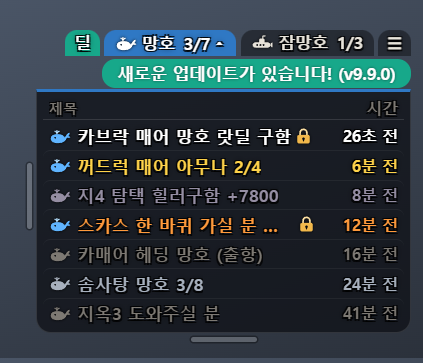
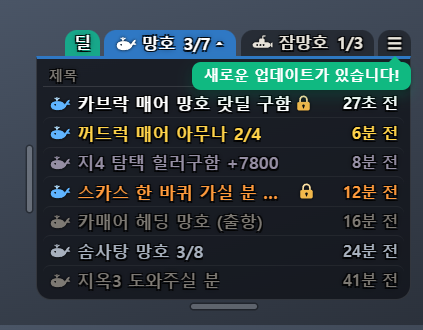
New-version bubble under the ☰ (after Scouter Lite), no row of its own
- "새로운 업데이트가 있습니다!" (no version number) floats under the ☰:
  absolute in the page, its edge on the ☰'s edge toward the content,
  kept inside the window, a caret at the ☰ - nothing moves. Emerald,
  10px, like Scouter's; the green dot on the ☰ stays.
- Hidden while the ☰ menu is open and while an update is being fetched
  or installed (update-ui pageState: pill && !busy, re-sent when busy
  changes).
- README: bubble wording and shot (scanner update-pill.png, widget
  update-bubble.png - new); CHANGELOG.

diff --git a/renderer.js b/renderer.js
@@ -430,18 +430,35 @@ function setProblems(list) {
 }
 window.setProblems = setProblems;
 
-// "새로운 업데이트가 있습니다!" under the tabs (click: the update window); a short message from
-// the update check takes its place for a few seconds
+// "새로운 업데이트가 있습니다!" - a bubble under the ☰ that takes no room (click: the update
+// window); hidden while the menu is open. With toasts off, a short message from the update
+// check takes its place for a few seconds.
 let updPill = '';
 let updToast = null;
 let updToastT = 0;
+let menuOpen = false;
 function drawPill() {
   const p = $('updpill');
   const text = updToast ? updToast.text : updPill;
-  p.hidden = !text;
+  p.hidden = !text || menuOpen;
   p.textContent = text;
   p.className = `updpill hit ${updToast ? `toast ${updToast.level}` : ''}`;
+  placeBubble();
 }
+// under the ☰, its edge on the ☰'s edge toward the list, kept inside the window; the caret at the ☰
+function placeBubble() {
+  const b = $('updpill');
+  if (b.hidden) return;
+  const m = $('menu').getBoundingClientRect();
+  const r = $('root').getBoundingClientRect();
+  const w = b.offsetWidth;
+  let left = document.body.classList.contains('left') ? m.left - r.left : m.right - r.left - w;
+  left = Math.max(2, Math.min(left, r.width - w - 2));
+  b.style.top = `${Math.round(m.bottom - r.top + 4)}px`;
+  b.style.left = `${Math.round(left)}px`;
+  b.style.setProperty('--caret', `${Math.round(Math.max(4, Math.min(w - 12, left + w - (m.left - r.left + m.width / 2) - 4)))}px`);
+}
+new ResizeObserver(placeBubble).observe(document.querySelector('.head'));
 $('updpill').addEventListener('click', () => {
   if (blocked()) return;
   if (updToast) { updToast = null; drawPill(); return; }     // a message: click = dismiss
@@ -557,6 +574,7 @@ wsizer.addEventListener('pointerdown', (e) => {
 wsizer.addEventListener('dblclick', () => { if (!blocked()) window.mangho.ui('width-reset'); });
 new ResizeObserver(() => {
   fitList();
+  placeBubble();
   window.mangho.ui('height', $('root').getBoundingClientRect().height + 2);
 }).observe($('root'));
 
@@ -577,6 +595,7 @@ window.mangho.onFeed((d) => {
     if (mode !== nickMode) { nickMode = mode; if (snap) draw(); }
     document.body.classList.toggle('wbar-left', d.wside === 'left');
     document.body.classList.toggle('wbar-right', d.wside !== 'left');
+    placeBubble();                       // the ☰ may have moved to the other end
     if (d.width) setWidthTip(d.width, d.defWidth);
     if (d.tab && d.tab !== tab) showTab(d.tab);
     if (d.role && d.role !== role) setRole(d.role);
@@ -610,7 +629,7 @@ window.mangho.onFeed((d) => {
     // update window it opens (never by itself)
     $('menu').classList.toggle('upd', !!d.version);
     $('menu').dataset.upd = d.version || '';
-    updPill = d.pill ? `새로운 업데이트가 있습니다! (v${d.version})` : '';
+    updPill = d.pill ? '새로운 업데이트가 있습니다!' : '';
     drawPill();
     setProblems(problems);
   } else if (d.type === 'update-toast') {
@@ -621,5 +640,7 @@ window.mangho.onFeed((d) => {
     updToastT = setTimeout(() => { updToast = null; drawPill(); }, (d.sec || 3) * 1000);
   } else if (d.type === 'menu') {
     blockUntil = d.open ? Infinity : Date.now() + 300;
+    menuOpen = !!d.open;
+    drawPill();
   }
 });

diff --git a/style.css b/style.css
@@ -65,14 +65,23 @@ body.busy .tab.on .cnt { opacity: .5; }
   content: ''; position: absolute; top: 1px; right: 1px; width: 6px; height: 6px; border-radius: 50%;
   background: var(--green); box-shadow: 0 0 0 1px rgba(0,0,0,.6);
 }
-/* "새로운 업데이트가 있습니다!" (after Scouter Lite's green pill); short messages use the same spot */
+/* "새로운 업데이트가 있습니다!" - a bubble hanging under the ☰ like Scouter Lite's (user 2026-11-27):
+   it takes no room (the list does not move); hidden while the menu is open or an update is being
+   installed. renderer.js placeBubble() puts it there. Short messages (toasts off) use it too. */
 .updpill {
-  margin: 2px 0 1px; padding: 1px 10px; border-radius: 9px; font-size: 11px; line-height: 17px; cursor: pointer;
-  background: #17a88a; color: #fff; text-shadow: 0 0 2px rgba(0,0,0,.6); max-width: 100%;
-  overflow: hidden; text-overflow: ellipsis; white-space: nowrap;
+  position: absolute; z-index: 6; padding: 3px 8px; border-radius: 6px; font-size: 10px; line-height: 13px;
+  white-space: nowrap; cursor: pointer; color: #fff; background: #10b981; text-shadow: none;
+  box-shadow: 0 4px 10px rgba(5, 150, 105, .25), 0 1px 3px rgba(0, 0, 0, .35);
 }
+.updpill:hover { background: #34d399; }
+.updpill::before {                       /* the caret pointing at the ☰ */
+  content: ''; position: absolute; top: -4px; right: var(--caret, 6px);
+  border: 4px solid transparent; border-top: 0; border-bottom-color: #10b981;
+}
+.updpill:hover::before { border-bottom-color: #34d399; }
 .updpill[hidden] { display: none; }
-.updpill.toast { background: rgba(30, 34, 40, .92); border: 1px solid var(--line); }
+.updpill.toast { background: rgba(30, 34, 40, .95); border: 1px solid var(--line); }
+.updpill.toast::before { border-bottom-color: rgba(30, 34, 40, .95); }
 .updpill.toast.warn { border-color: var(--red); color: #ffd0cb; }
 @keyframes pulse { 50% { filter: brightness(1.35); } }
 

diff --git a/update-ui.js b/update-ui.js
@@ -39,7 +39,8 @@ function create(o) {
     const v = i && i.available ? i.version : null;
     o.page({
       type: 'update', version: v,
-      pill: !!(v && cfg().skipVersion !== v && cfg().noticeDeclined !== (i.notice && i.notice.version)),
+      // the bubble under the ☰: not for a skipped version, nor while it is being fetched / installed
+      pill: !!(v && cfg().skipVersion !== v && cfg().noticeDeclined !== (i.notice && i.notice.version) && !busy()),
     });
   }
   function model() {
@@ -50,7 +51,11 @@ function create(o) {
       canInstall: st.demo || o.canInstall(), progress: st.progress, error: st.error, tampered: st.tampered, title: o.title,
     };
   }
-  function send() { if (win && !win.isDestroyed()) win.webContents.send('update', model()); }
+  let lastBusy = false;
+  function send() {
+    if (win && !win.isDestroyed()) win.webContents.send('update', model());
+    if (busy() !== lastBusy) { lastBusy = busy(); pageState(); }      // the bubble hides while busy
+  }
 
   // ------------------------------------------------------------------- the window
   // the same text size as the overlay (its zoom: game window size x 글자 작게/중간/크게)

diff --git a/main.js b/main.js
@@ -701,7 +701,7 @@ async function demoShots() {
   notify({ text: '스캔 실패 2회 연속 — 갤러리 응답 없음', level: 'warn', sec: 30, by: '스캐너' });
   await wait(1200);
   await save(toast.window(), 'toast');
-  await js("window.__pill('새로운 업데이트가 있습니다! (v9.9.0)')");
+  await js("window.__pill('새로운 업데이트가 있습니다!')");
   await wait(400);
   await save(win, 'update-pill');
   await uui.demo(path.join(DEMO, 'update'));

diff --git a/README.md b/README.md
@@ -68,7 +68,7 @@
   - **알림** (토스트): 게임 창 위쪽(☰ → 알림 위치 [위 | 가운데 | 아래])에 잠깐 뜨는 알림 — 업데이트 확인 결과, "x.y.z로 업데이트됨"·되돌림,
     새로 생긴 문제(스캔 실패 등, ☰의 ⚠와 같은 것). 망호 글은 알리지 않습니다. 클릭은 게임으로 그대로 가고, 비면 창이 사라집니다.
     게임 창이 내려가 있는 동안 온 알림은 돌아왔을 때 한 줄로 모아 보여 줍니다. **알림 등급** [모두 | 주의 | 행동]으로 줄이고, 끄면 업데이트 결과는
-    탭 아래 알약에 3초. 주간 납품 위젯의 알림과 같은 모양이지만 서로 따로 돌아서, 둘이 같이 뜨면 겹칠 수 있습니다.
+    ☰ 아래 말풍선에 3초. 주간 납품 위젯의 알림과 같은 모양이지만 서로 따로 돌아서, 둘이 같이 뜨면 겹칠 수 있습니다.
 
     <img src="docs/img/toast.png" width="380" alt="알림 (토스트)">
   - **글자** [작게 | 중간 | 크게]: 게임 창 크기에 맞춘 배율 위에 곱하는 크기(×0.85 / ×1 / ×1.2). 오버레이·툴팁·메뉴·알림·업데이트 창·이용 안내가 함께 바뀝니다.
@@ -173,7 +173,8 @@
 
 - 켤 때와 6시간마다 [GitHub 릴리스](https://github.com/mobingi-widgets/mangho-scanner/releases)를 확인합니다 (정식 릴리스만,
   ☰ → 자동 업데이트 확인으로 끌 수 있음 · ☰ → 업데이트 확인으로 지금 확인).
-- 새 버전이 있으면 탭 아래 **새로운 업데이트가 있습니다!** 알약과 ☰의 초록 점. 누르면 업데이트 창이 뜹니다. 스스로 설치하거나 재시작하지 않습니다.
+- 새 버전이 있으면 ☰ 아래에 **새로운 업데이트가 있습니다!** 말풍선과 ☰의 초록 점. 말풍선은 목록을 밀지 않고 떠 있습니다.
+  누르면 업데이트 창이 뜹니다. 스스로 설치하거나 재시작하지 않습니다.
 - 업데이트 창: 지금 → 새 버전, 변경 내용, **[⬇ 업데이트] [나중에]**, 이 버전 건너뛰기.
   업데이트를 누르면 다운로드 진행 막대(받은 MB / 전체 MB (%), 속도, 남은 시간) → 서명 확인 → 설치 → 스캐너가 다시 켜지고
   "x.y.z으로 업데이트됨" 알림이 뜹니다. ☰ → 업데이트 확인의 결과(최신 버전입니다 · 확인 실패)도 알림으로.

diff --git a/CHANGELOG.md b/CHANGELOG.md
@@ -6,6 +6,9 @@
   - 원인: 파일을 바꾸는 스크립트가 한 줄도 실행되지 않고 끝남(콘솔 없는 PowerShell).
   - 이제 스크립트가 시작된 것을 확인한 뒤에만 꺼짐. 시작되지 않으면 지금 버전 그대로 실패를 알림.
   - **1.5.1 이하에서는 1.6.0을 한 번 손으로 설치해야 함** (README "1.5.1 이하에서 1.6.0으로").
+- **새 버전 말풍선**: "새로운 업데이트가 있습니다!"를 탭 아래 줄 대신 ☰ 아래 떠 있는 말풍선으로(모비스카우터 Lite 방식).
+  - 목록을 밀지 않습니다.
+  - 메뉴가 열려 있거나 내려받는 중에는 숨습니다.
 - **알림 (토스트)**: 주간 납품 위젯과 같은 알림 창 — 게임 창 위쪽 가운데에 잠깐 뜨는 짙은 알약. 업데이트 확인 결과(최신 버전입니다 ·
   확인 실패), "x.y.z으로 업데이트됨", 되돌림 안내, 새로 생긴 문제(스캔 실패·멈춤·게임 창 추적 불가 — 같은 문제의 횟수만 바뀐 건
   다시 알리지 않음). 망호 글은 알리지 않음. 전에는 탭 아래 알약에 3초만 보였음(알림을 끄거나 등급으로 거르면 여전히 알약).
